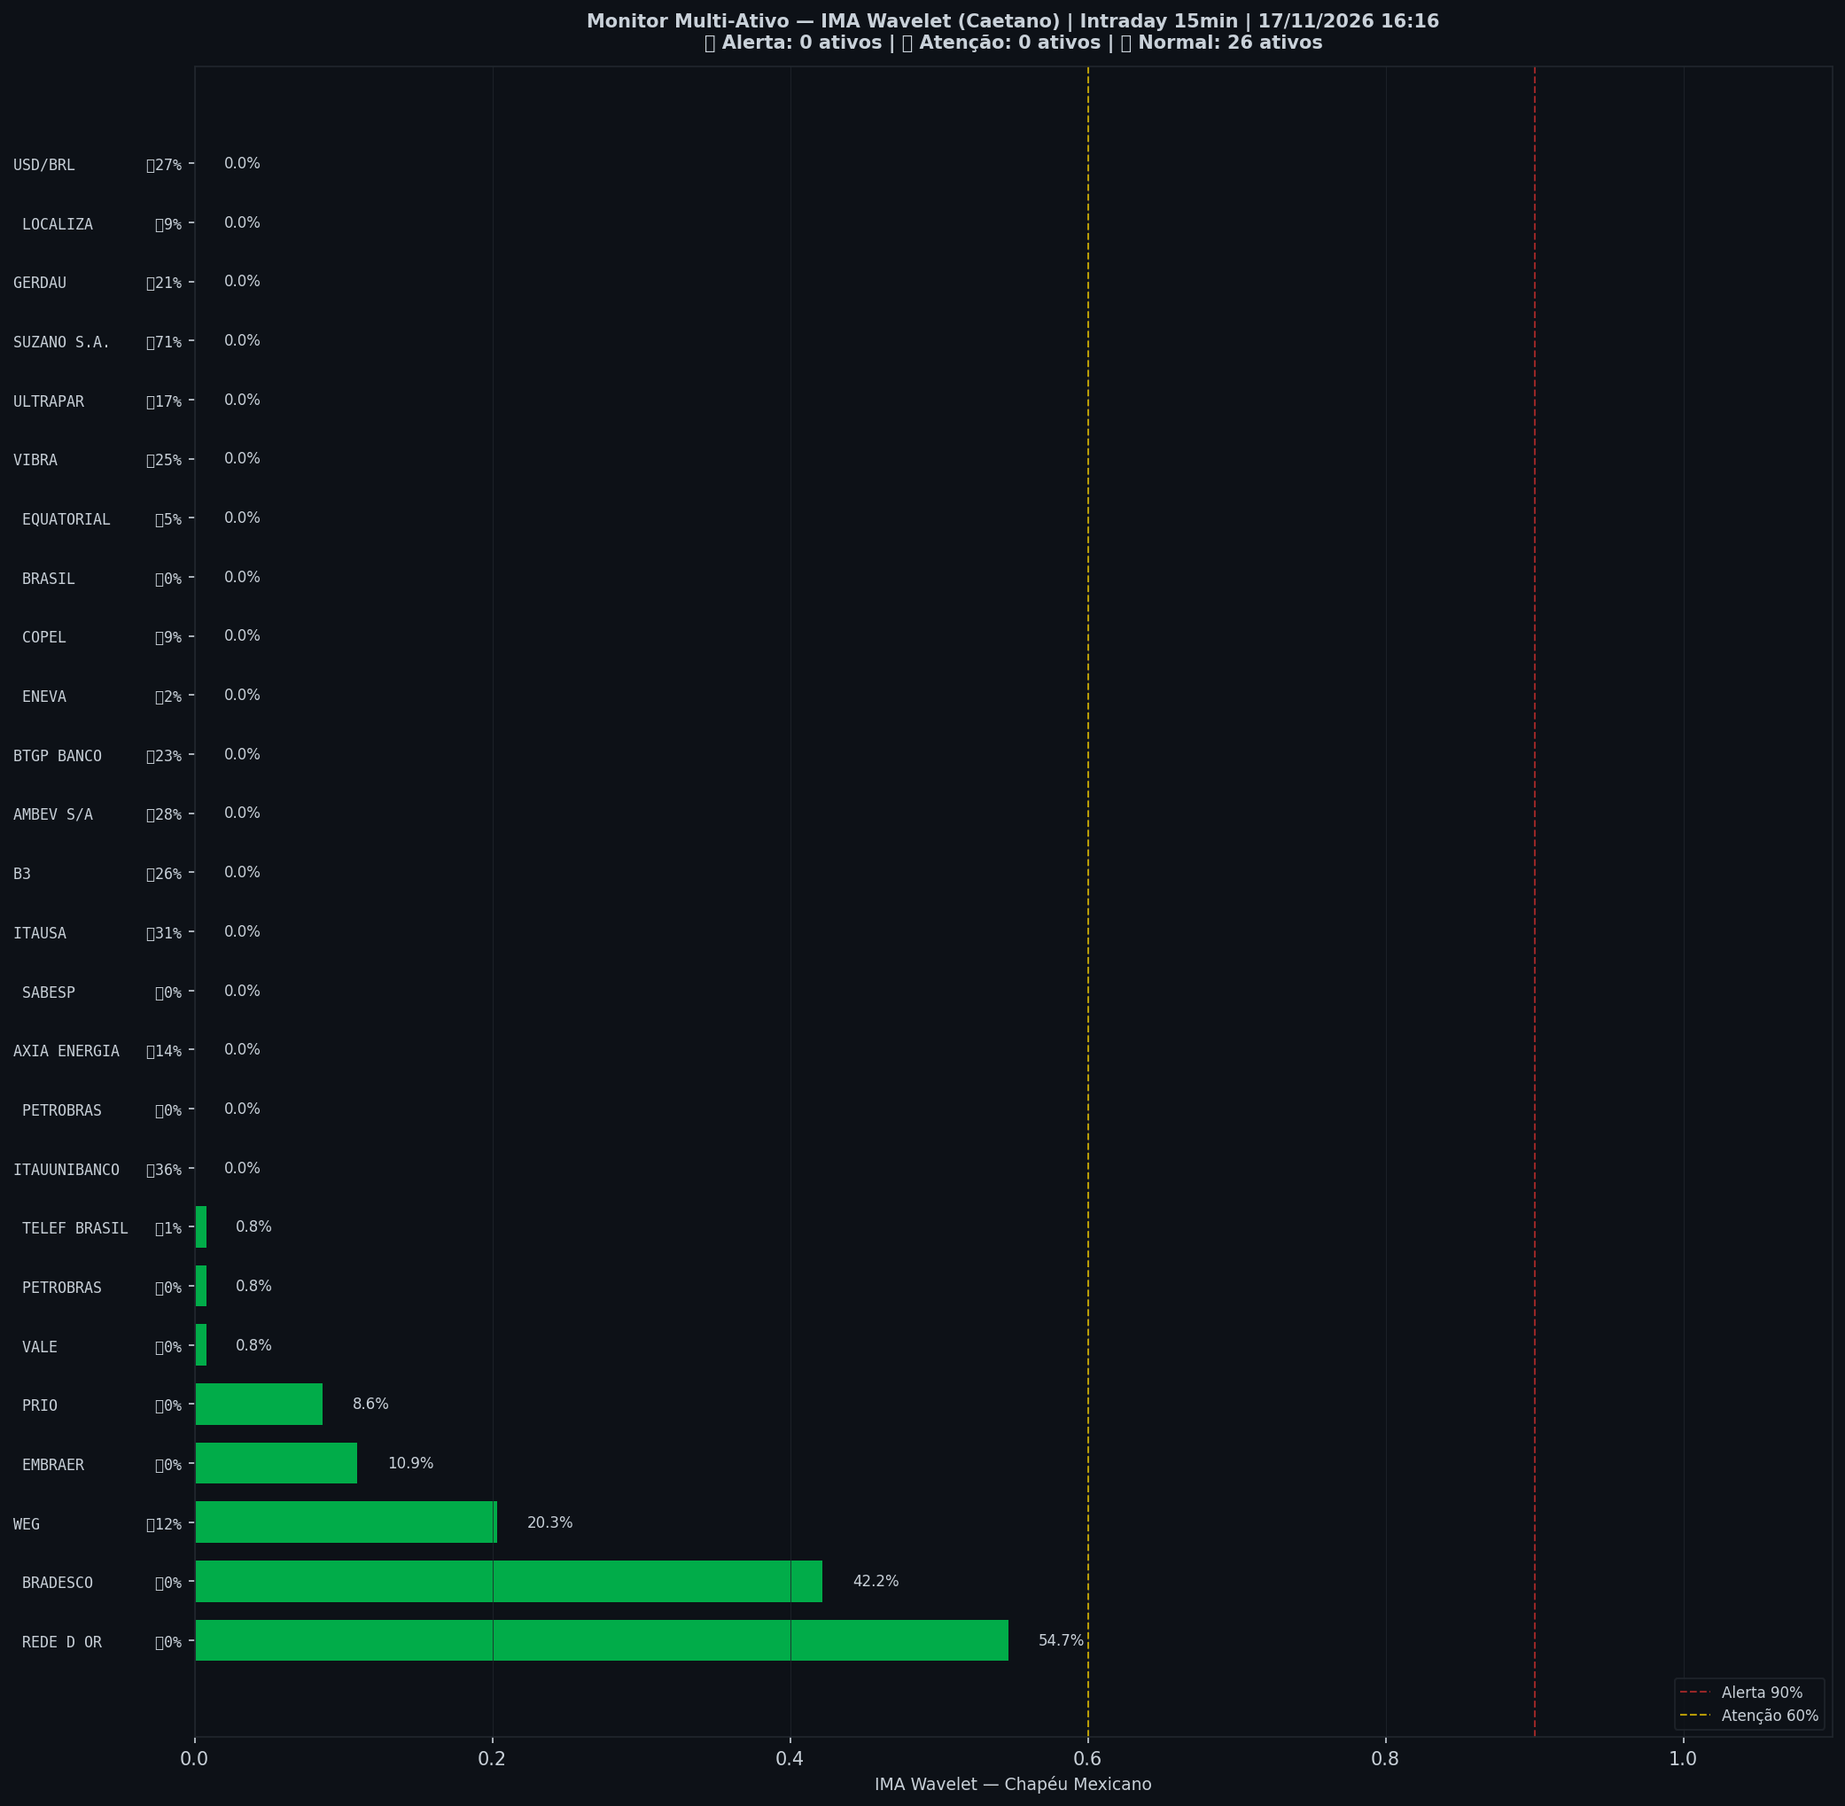
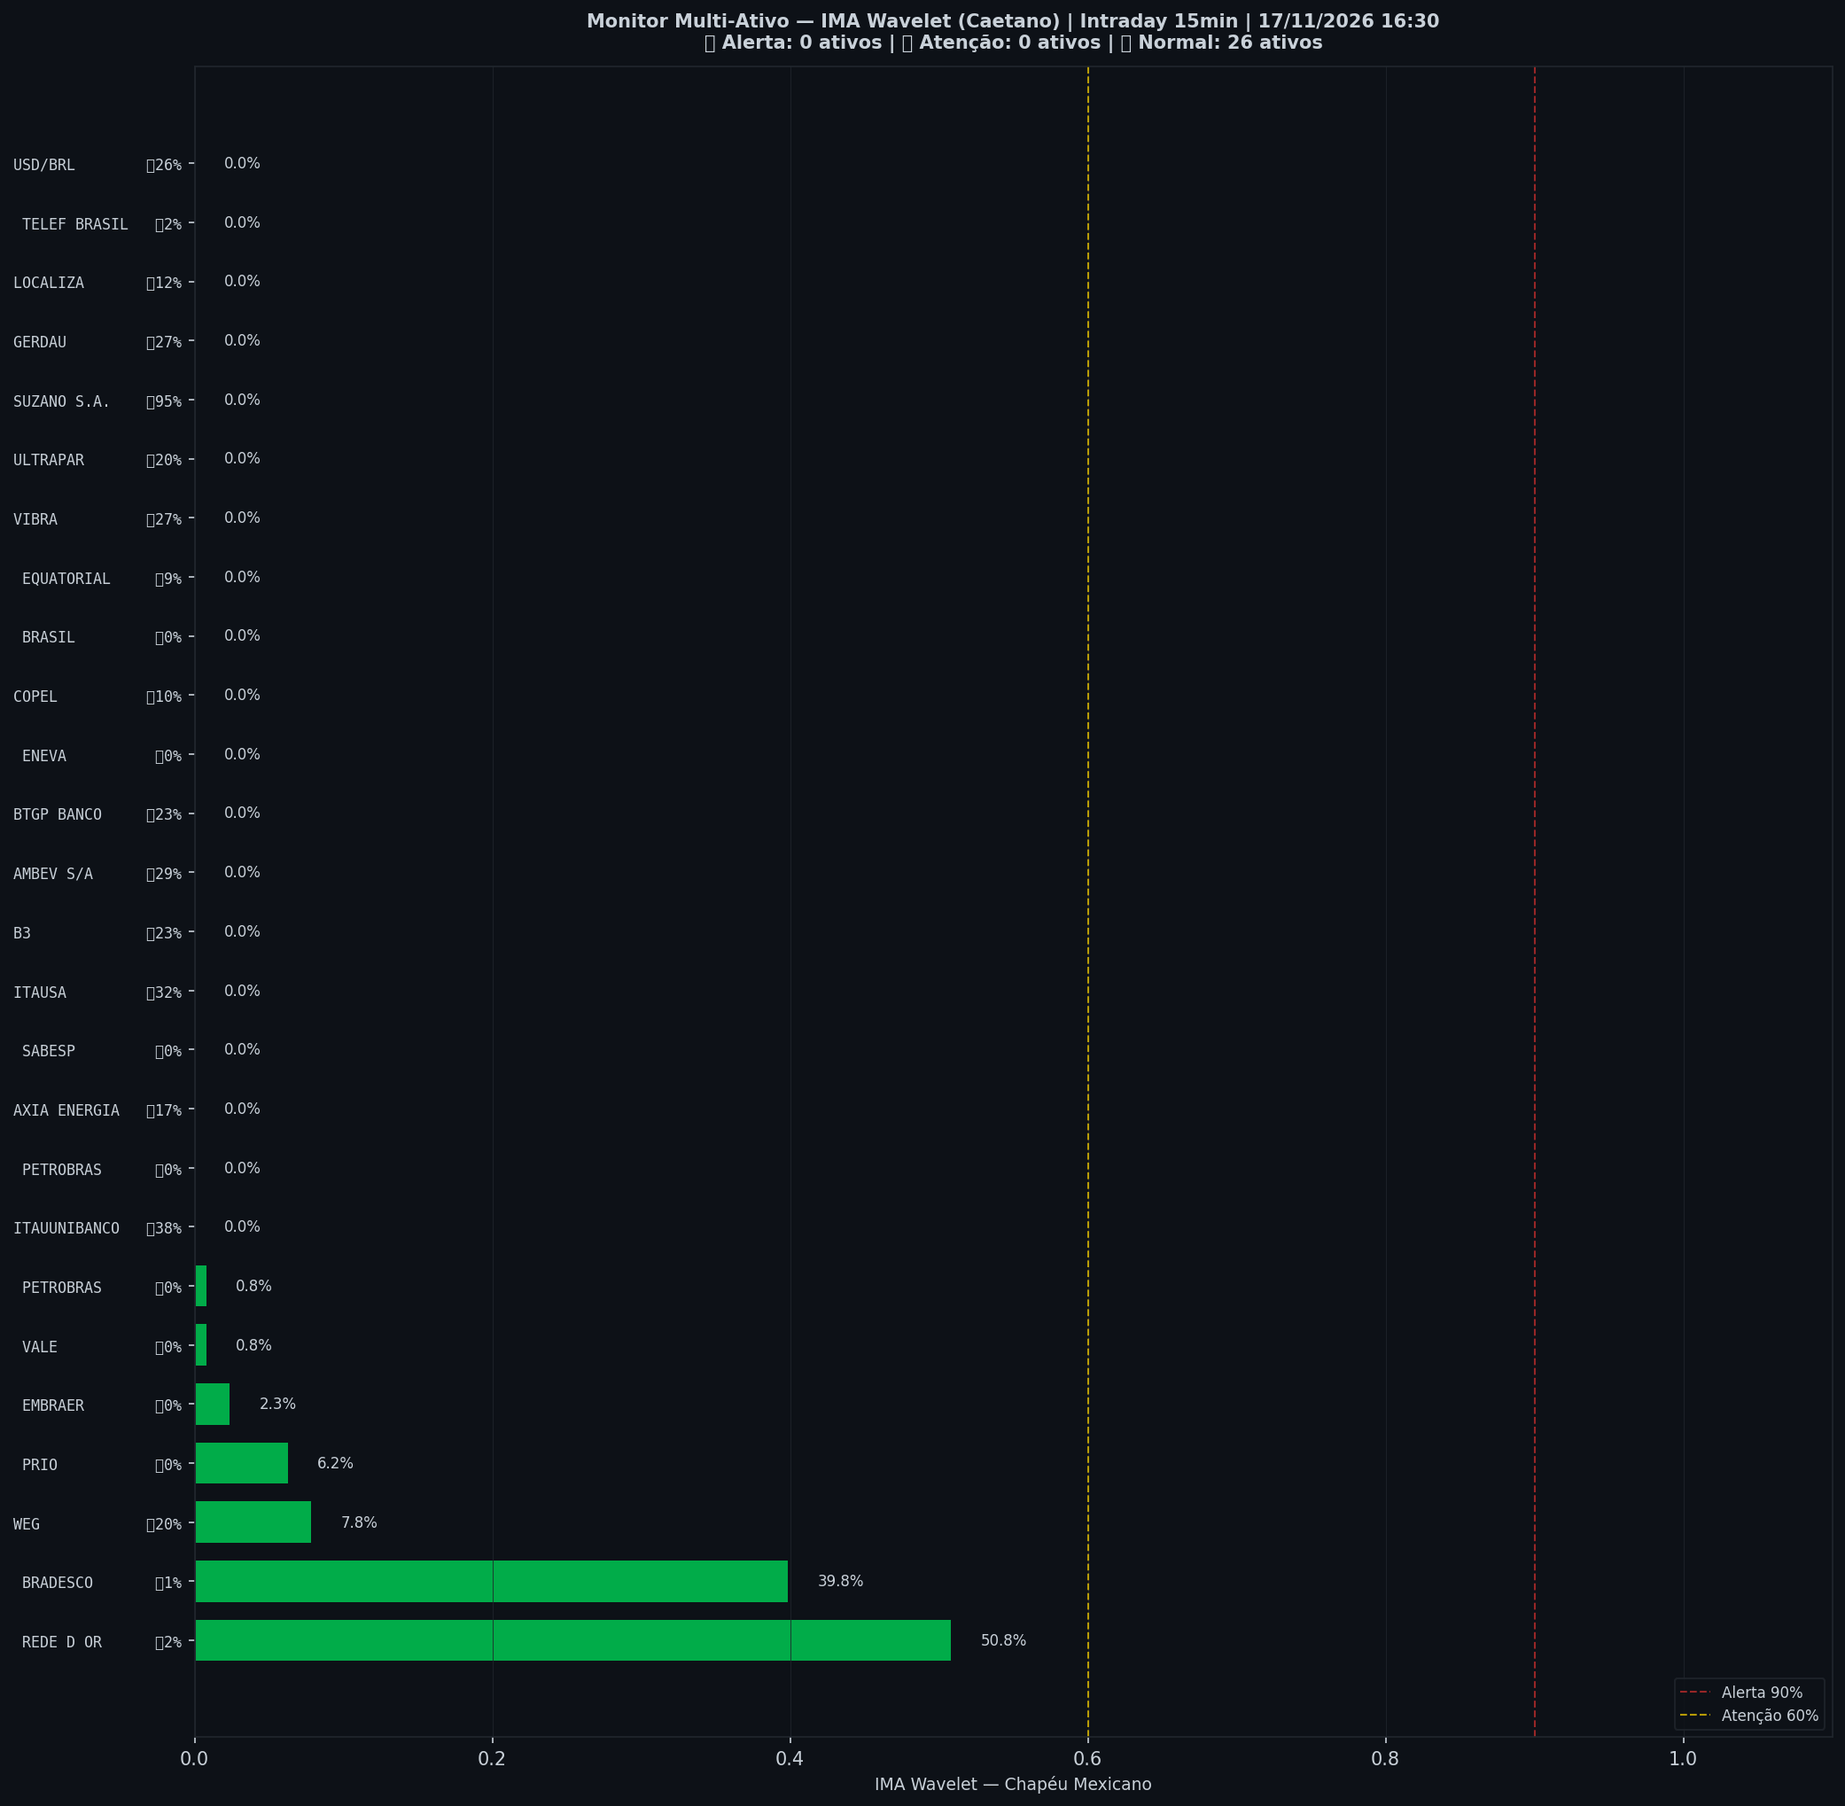
🤖 Auto: Sinal 17/11/2026 16:31

diff --git a/content/intraday/2026-11-17.md b/content/intraday/2026-11-17.md
@@ -1,11 +1,11 @@
 ---
-title: "🟢 Intraday 17/11/2026 16:00 BRT — VERDE"
+title: "🟢 Intraday 17/11/2026 16:15 BRT — VERDE"
 date: 2026-11-17
 tags: [intraday]
 ---
 
-> [!success] Onde o mercado está agora (17/11 16:00, candles de 15 min): **🟢 Calmo**
-> `Pânico ◀─────────●───────────▶ Euforia`
+> [!success] Onde o mercado está agora (17/11 16:15, candles de 15 min): **🟢 Calmo**
+> `Pânico ◀────────●────────────▶ Euforia`
 >
 > O Ibovespa está dentro da sua faixa normal, sem excesso para cima nem para baixo.
 > No gráfico diário: 🌱 Fundo se desfazendo.
@@ -20,7 +20,7 @@ tags: [intraday]
 > | 📍 **Sinais** | hoje: nenhum sinal | [abrir](sinais-topo-fundo/) |
 > | 🧪 **Placar ao vivo** | 1 operação(ões), 0 com lucro, soma -0,8% | [abrir](operacoes/) |
 
-> [!success] IMA Intraday · 15 min (17/11 16:00): 🟢 **VERDE** — Risco 0% · ＝ +0 p.p. vs leitura anterior
+> [!success] IMA Intraday · 15 min (17/11 16:15): 🟢 **VERDE** — Risco 0% · ＝ +0 p.p. vs leitura anterior
 > `░░░░░░░░░░░░░░░░░░░░`
 > Preço na faixa normal em torno da tendência.
 
@@ -32,13 +32,13 @@ tags: [intraday]
 >
 > *Leitura educacional baseada em 26 anos de dados, não recomendação. [Como usar](../metodologia/crise#3-como-usar-na-prática).*
 
-| Indicador — IMA Intraday · 15 min (17/11 16:00) | Valor |
+| Indicador — IMA Intraday · 15 min (17/11 16:15) | Valor |
 |---|---|
 | 🔴 ζ Topo — preço esticado acima da tendência | **0%** |
-| 🔵 ζ Fundo — preço esticado abaixo da tendência | 12% |
+| 🔵 ζ Fundo — preço esticado abaixo da tendência | 16% |
 | 🫧 LPPL bolha — alta super-exponencial (risco de crash) | 0% |
 | 🫧 LPPL antibolha — queda super-exponencial (risco de repique) | 0% |
-| 📊 Ibovespa | 169.721 pts |
+| 📊 Ibovespa | 169.516 pts |
 
 ![Gráfico do sinal](../graficos/sinal_intraday.png)
 
@@ -46,6 +46,7 @@ tags: [intraday]
 
 | Data | Zona | Evento | Risco | ζ Topo | ζ Fundo | LPPL |
 |---|---|---|---|---|---|---|
+| 2026-11-17 16:15 | 🟢 VERDE |  | **0%** | 0% | 16% | 0% |
 | 2026-11-17 16:00 | 🟢 VERDE |  | **0%** | 0% | 12% | 0% |
 | 2026-11-17 15:45 | 🟢 VERDE |  | **0%** | 0% | 9% | 0% |
 | 2026-11-17 15:30 | 🟢 VERDE |  | **0%** | 0% | 4% | 0% |
@@ -75,7 +76,6 @@ tags: [intraday]
 | 2026-11-16 17:45 | 🟢 VERDE |  | **0%** | 0% | 🔵 **83%** | 0% |
 | 2026-11-16 17:30 | 🟢 VERDE |  | **0%** | 0% | 🔵 **88%** | 0% |
 | 2026-11-16 17:15 | 🟢 VERDE |  | **1%** | 1% | 🔪 **91%** | 0% |
-| 2026-11-16 17:00 | 🟢 VERDE |  | **1%** | 1% | 🔪 **93%** | 0% |
 
 <small>Destaques: 🟡 ≥ 60% · 🔴 ≥ 90% (Risco e ζ Topo) · 🔵 ≥ 60% · 🔪 ≥ 90% (ζ Fundo) · 🫧 ≥ 30% · 🫧🔴 ≥ 50% (LPPL)</small>
 
@@ -83,43 +83,43 @@ tags: [intraday]
 
 **0% dos ativos em tensão** (0🔴 1🟡) · **1 com ζ Fundo alto** — quanto mais ativos disparam juntos, mais confiável o sinal.
 
-> [!warning] Em destaque no multi-ativo
-> 🔵 **SUZANO S.A.** ζ Fundo 71%
+> [!danger] Em destaque no multi-ativo
+> 🔪 **SUZANO S.A.** ζ Fundo 95%
 
 | Zona | Ativo | Setor | ζ Topo | ζ Fundo |
 |---|---|---|---|---|
-| 🟢 | **SUZANO S.A.** | Papel/Celulose | 0.0% | 🔵 **71.1%** |
-| 🟡 | **REDE D OR** | Saúde | 54.7% | 0.0% |
-| 🟢 | **BRADESCO** | Financeiro | 42.2% | 0.0% |
-| 🟢 | **ITAUUNIBANCO** | Financeiro | 0.0% | 35.9% |
-| 🟢 | **ITAUSA** | Financeiro | 0.0% | 31.2% |
-| 🟢 | **AMBEV S/A** | Consumo | 0.0% | 28.1% |
-| 🟢 | **USD/BRL** | Câmbio | 0.0% | 26.6% |
-| 🟢 | **B3** | Financeiro | 0.0% | 25.8% |
-| 🟢 | **VIBRA** | Energia | 0.0% | 25.0% |
+| 🟢 | **SUZANO S.A.** | Papel/Celulose | 0.0% | 🔪 **94.5%** |
+| 🟡 | **REDE D OR** | Saúde | 50.8% | 1.6% |
+| 🟢 | **BRADESCO** | Financeiro | 39.8% | 0.8% |
+| 🟢 | **ITAUUNIBANCO** | Financeiro | 0.0% | 38.3% |
+| 🟢 | **ITAUSA** | Financeiro | 0.0% | 32.0% |
+| 🟢 | **AMBEV S/A** | Consumo | 0.0% | 28.9% |
+| 🟢 | **VIBRA** | Energia | 0.0% | 27.3% |
+| 🟢 | **GERDAU** | Siderurgia | 0.0% | 26.6% |
+| 🟢 | **USD/BRL** | Câmbio | 0.0% | 25.8% |
+| 🟢 | **B3** | Financeiro | 0.0% | 23.4% |
 | 🟢 | **BTGP BANCO** | Financeiro | 0.0% | 22.7% |
-| 🟢 | **GERDAU** | Siderurgia | 0.0% | 21.1% |
-| 🟢 | **WEG** | Industrial | 20.3% | 11.7% |
-| 🟢 | **ULTRAPAR** | Outros | 0.0% | 17.2% |
-| 🟢 | **AXIA ENERGIA** | Energia | 0.0% | 14.1% |
-| 🟢 | **EMBRAER** | Outros | 10.9% | 0.0% |
-| 🟢 | **LOCALIZA** | Aluguel | 0.0% | 9.4% |
-| 🟢 | **PRIO** | Petróleo | 8.6% | 0.0% |
-| 🟢 | **COPEL** | Energia | 0.0% | 8.6% |
-| 🟢 | **EQUATORIAL** | Energia | 0.0% | 4.7% |
-| 🟢 | **ENEVA** | Energia | 0.0% | 1.6% |
+| 🟢 | **WEG** | Industrial | 7.8% | 20.3% |
+| 🟢 | **ULTRAPAR** | Outros | 0.0% | 20.3% |
+| 🟢 | **AXIA ENERGIA** | Energia | 0.0% | 17.2% |
+| 🟢 | **LOCALIZA** | Aluguel | 0.0% | 11.7% |
+| 🟢 | **COPEL** | Energia | 0.0% | 10.2% |
+| 🟢 | **EQUATORIAL** | Energia | 0.0% | 8.6% |
+| 🟢 | **PRIO** | Petróleo | 6.2% | 0.0% |
+| 🟢 | **EMBRAER** | Outros | 2.3% | 0.0% |
+| 🟢 | **TELEF BRASIL** | Outros | 0.0% | 2.3% |
 | 🟢 | **VALE** | Mineração | 0.8% | 0.0% |
 | 🟢 | **PETROBRAS** | Petróleo | 0.8% | 0.0% |
-| 🟢 | **TELEF BRASIL** | Outros | 0.8% | 0.8% |
 | 🟢 | **PETROBRAS** | Petróleo | 0.0% | 0.0% |
 | 🟢 | **SABESP** | Saneamento | 0.0% | 0.0% |
+| 🟢 | **ENEVA** | Energia | 0.0% | 0.0% |
 | 🟢 | **BRASIL** | Financeiro | 0.0% | 0.0% |
 
 <small>Destaques: 🟡 ≥ 60% · 🔴 ≥ 90% (Risco e ζ Topo) · 🔵 ≥ 60% · 🔪 ≥ 90% (ζ Fundo) · 🫧 ≥ 30% · 🫧🔴 ≥ 50% (LPPL)</small>
 
 ![Monitor multi-ativo](../graficos/multi_intraday.png)
 
-*Página atualizada em 17/11/2026 16:16 BRT (leitura da barra de 2026-11-17 16:00 BRT).*
+*Página atualizada em 17/11/2026 16:30 BRT (leitura da barra de 2026-11-17 16:15 BRT).*
 
 > [!warning] O que este indicador não faz
 > Medido em 5 anos de Ibovespa, o ζ **não antecipa** topos nem fundos: a capacidade de separar o que sobe do que cai ficou em 0,49–0,52, e 0,50 é moeda jogada ao ar. Ele descreve o estado de agora; não é aviso do que vem. As zonas verde/amarelo/vermelho continuam na página como descrição desse estado — **não as use como sinal de entrada ou saída**.

diff --git a/content/index.md b/content/index.md
@@ -6,10 +6,10 @@ tags: [home]
 
 **As ondas do mercado, explicadas.** Leitura do Ibovespa com estatística de 26 anos, baseada no trabalho de pesquisadores e traders reconhecidos e adaptada por Jarbas Daniel da Costa.
 
-*Última atualização: 17/11/2026 16:16 BRT · Intraday 15min*
+*Última atualização: 17/11/2026 16:30 BRT · Intraday 15min*
 
-> [!success] Onde o mercado está agora (17/11 16:00, candles de 15 min): **🟢 Calmo**
-> `Pânico ◀─────────●───────────▶ Euforia`
+> [!success] Onde o mercado está agora (17/11 16:15, candles de 15 min): **🟢 Calmo**
+> `Pânico ◀────────●────────────▶ Euforia`
 >
 > O Ibovespa está dentro da sua faixa normal, sem excesso para cima nem para baixo.
 > No gráfico diário: 🌱 Fundo se desfazendo.
@@ -44,18 +44,18 @@ tags: [home]
 > *Leitura educacional baseada em 26 anos de dados, não recomendação. [Como usar](metodologia/crise#3-como-usar-na-prática).*
 
 > [!info]- 🌊 Detalhes do Sinal IMA (indicadores e últimos 7 pregões)
-> > [!success] IMA Intraday · 15 min (17/11 16:00): 🟢 **VERDE** — Risco 0% · ＝ +0 p.p. vs leitura anterior
+> > [!success] IMA Intraday · 15 min (17/11 16:15): 🟢 **VERDE** — Risco 0% · ＝ +0 p.p. vs leitura anterior
 > > `░░░░░░░░░░░░░░░░░░░░`
 > > Preço na faixa normal em torno da tendência.
 >
 >
-> | Indicador — IMA Intraday · 15 min (17/11 16:00) | Valor |
+> | Indicador — IMA Intraday · 15 min (17/11 16:15) | Valor |
 > |---|---|
 > | 🔴 ζ Topo — preço esticado acima da tendência | **0%** |
-> | 🔵 ζ Fundo — preço esticado abaixo da tendência | 12% |
+> | 🔵 ζ Fundo — preço esticado abaixo da tendência | 16% |
 > | 🫧 LPPL bolha — alta super-exponencial (risco de crash) | 0% |
 > | 🫧 LPPL antibolha — queda super-exponencial (risco de repique) | 0% |
-> | 📊 Ibovespa | 169.721 pts |
+> | 📊 Ibovespa | 169.516 pts |
 >
 > **Multi-ativo:** 0% em tensão (0🔴 1🟡 de 26 ativos)
 >
@@ -63,7 +63,7 @@ tags: [home]
 >
 > | Data | Zona | Risco | ζ Topo | ζ Fundo | LPPL |
 > |---|---|---|---|---|---|
-> | [17/11/2026](intraday/2026-11-17) | 🟢 VERDE | **0%** | 0% | 12% | 0% |
+> | [17/11/2026](intraday/2026-11-17) | 🟢 VERDE | **0%** | 0% | 16% | 0% |
 > | [16/11/2026](intraday/2026-11-16) | 🟢 VERDE | **0%** | 0% | 🔵 **74%** | 0% |
 >
 > <small>Destaques: 🟡 ≥ 60% · 🔴 ≥ 90% (Risco e ζ Topo) · 🔵 ≥ 60% · 🔪 ≥ 90% (ζ Fundo) · 🫧 ≥ 30% · 🫧🔴 ≥ 50% (LPPL)</small>

diff --git a/content/operacoes/entradas.md b/content/operacoes/entradas.md
@@ -31,7 +31,7 @@ description: "Compra depois de um sinal de fundo: Nadaraya no diário, semáforo
 > | Diário · Semáforo N3 após ζ Fundo | 07/07/26 a 172.021 | 10/08/26 a 172.021 | **+0,0%** | stop no preço de entrada |
 > | H4 · Semáforo N2 | 12/06/26 14h a 171.134 | 15/06/26 14h a 171.134 | **+0,0%** | stop no preço de entrada |
 >
-> <small>Atualizado 16/11 19:00 · checado no pregão às 16:15. Nota: ✅ passou no teste fora da amostra (walk-forward 2008–2026) · 🧪 em teste (H4, com aviso no Telegram) ou em observação (ζ, sem aviso) · 🧪 na tabela = operação do teste ao vivo.</small>
+> <small>Atualizado 16/11 19:00 · checado no pregão às 16:30. Nota: ✅ passou no teste fora da amostra (walk-forward 2008–2026) · 🧪 em teste (H4, com aviso no Telegram) ou em observação (ζ, sem aviso) · 🧪 na tabela = operação do teste ao vivo.</small>
 >
 > *Regras: depois de um sinal de fundo, o Diário entra quando o Nadaraya vira para cima; o Semanal e o H4 entram quando um fundo do semáforo fica fixo. Stop e saída de cada regra na [metodologia](metodologia/regras-de-operacao#entradas-do-método). Nenhuma regra de venda passou no teste. Os números do histórico têm viés de escolha (overfitting); o placar ao vivo é o que vale. Leitura educacional do método, não recomendação.*
 

diff --git a/content/integridade/index.md b/content/integridade/index.md
@@ -5,7 +5,7 @@ description: "O que foi conferido, contra qual fonte e quando — medido na hora
 tags: [integridade]
 ---
 
-*Pregão conferido: **16/11/2026**, com 59 tabelas no acervo · página gerada em 17/11/2026 16:16*
+*Pregão conferido: **16/11/2026**, com 59 tabelas no acervo · página gerada em 17/11/2026 16:30*
 
 O pregão conferido é o último **fechado e arquivado inteiro**, não o de hoje: enquanto o dia corre, só algumas tabelas estão gravadas, e conferir um dia pela metade produziria alarme falso.
 
@@ -19,7 +19,7 @@ Esta página não declara que o site está correto. Ela **mede** e escreve o res
 | Tabelas incompletas | **nenhuma** |
 | Tabelas sem alvo publicado pela B3 | 5 — não há como conferir |
 | Páginas publicadas | 351 |
-| Página escrita mais recentemente | 17/11 16:16 |
+| Página escrita mais recentemente | 17/11 16:30 |
 | Páginas sem data no cabeçalho | 8 — cegas para a conferência de dado |
 
 ## 1 · Acervo do boletim diário

diff --git a/content/historico.md b/content/historico.md
@@ -5,7 +5,7 @@ tags: [historico]
 
 # 📜 Histórico de leituras (v5)
 
-**2.438 leituras** desde 2026-07-03. Na página ficam os últimos 3 dias leitura por leitura e o resumo de cada dia anterior; o registro inteiro está no arquivo para baixar.
+**2.439 leituras** desde 2026-07-03. Na página ficam os últimos 3 dias leitura por leitura e o resumo de cada dia anterior; o registro inteiro está no arquivo para baixar.
 
 [**Baixar o histórico completo**](historico-completo.csv) (107 KB · abre no Excel e no LibreOffice)
 
@@ -16,6 +16,7 @@ tags: [historico]
 
 | Data | Modo | Zona | Risco | IMA | LPPL |
 |---|---|---|---|---|---|
+| 2026-11-17 16:15 | intraday | 🟢 VERDE | 0% | 0% | 0% |
 | 2026-11-17 16:00 | intraday | 🟢 VERDE | 0% | 0% | 0% |
 | 2026-11-17 15:45 | intraday | 🟢 VERDE | 0% | 0% | 0% |
 | 2026-11-17 15:30 | intraday | 🟢 VERDE | 0% | 0% | 0% |

diff --git a/content/operacoes/ranking.md b/content/operacoes/ranking.md
@@ -5,7 +5,7 @@ tags: [operacoes]
 description: "As regras de compra do site ordenadas pelo resultado, com treino, teste e placar ao vivo"
 ---
 
-*Atualizado 17/11/2026 16:16 · histórico simulado com as regras congeladas em 23/10/2026 + placar ao vivo.*
+*Atualizado 17/11/2026 16:30 · histórico simulado com as regras congeladas em 23/10/2026 + placar ao vivo.*
 
 As regras de compra do site, **da que mais rendeu para a que menos rendeu**. O resultado é por operação, no índice à vista, sem custos e sem juros compostos (a soma é só a soma das operações). **Treino** = entradas de 2001 a 2013 e **teste** = 2014 em diante: uma regra só é confiável se ganhou nos dois. O único resultado sem nenhum ajuste ao histórico é o **placar ao vivo**.
 

diff --git a/content/linha-do-tempo/index.md b/content/linha-do-tempo/index.md
@@ -5,7 +5,7 @@ description: "Todo sinal, ordem, stop e aviso do Pêndulo de Mercado, do mais re
 tags: [eventos]
 ---
 
-*Atualizada 17/11/2026 16:16 BRT · a cada 15 min no pregão e às 19h.*
+*Atualizada 17/11/2026 16:30 BRT · a cada 15 min no pregão e às 19h.*
 
 Tudo o que o sistema fez ou detectou, **do mais recente para o mais antigo**: sinais de topo e fundo, ordens de compra e de venda armadas, compras, vendas, stops, avisos de 🚨 preço perto do nível e mudanças do Sinal IMA. Os **últimos 7 dias** ficam abertos; o resto, por **ano → mês → dia**.
 

diff --git a/content/avisos/index.md b/content/avisos/index.md
@@ -2,7 +2,7 @@
 title: "⚠ Avisos: o que saber antes de usar os números"
 ---
 
-*Gerado em 17/11/2026 16:16*
+*Gerado em 17/11/2026 16:30*
 
 Este site publica muitos números, e cada um tem uma limitação que importa na hora de
 decidir. As limitações estão escritas nas próprias páginas, mas quem chega direto numa
